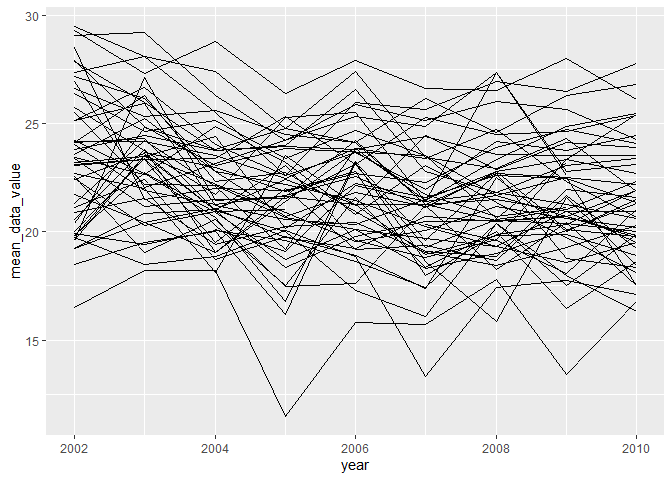
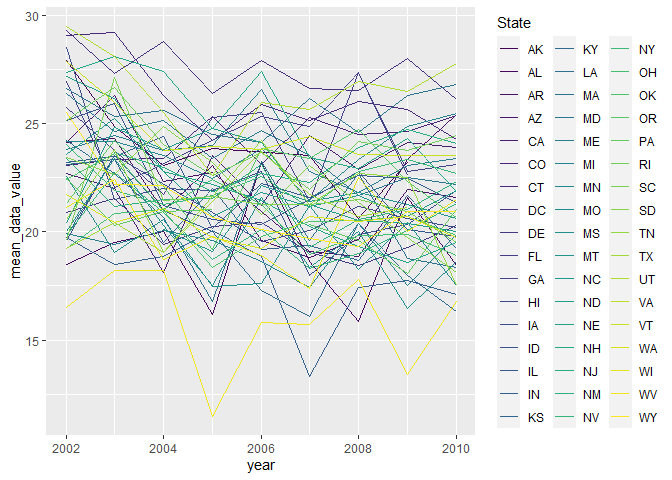
Solved 2b. Now for 3.

diff --git a/p8105_hw3_jra2186.md b/p8105_hw3_jra2186.md
@@ -3,6 +3,8 @@ P8105 Homework 3
 Jesse R. Ames
 10/20/2021
 
+*With assistance from Hun Lee and Nikhita Damaraju*
+
 ``` r
 library(tidyverse)
 ```
@@ -94,23 +96,23 @@ instacart %>%
     "dog food care",
     "packaged vegetables fruits"
   )) %>%
-  select(aisle, product_name) %>%
-  pivot_wider(names_from = aisle,
-              values_from = product_name,
-              values_fn = length) %>%
-  janitor::clean_names()
+  group_by(aisle) %>%
+  count(product_name, sort = TRUE) %>% #We want the top three from each aisle
+  slice_head(n = 3) %>% #Decapitation!
+  knitr::kable()
 ```
 
-    ## # A tibble: 1 x 3
-    ##   packaged_vegetables_fruits baking_ingredients dog_food_care
-    ##                        <int>              <int>         <int>
-    ## 1                      78493              13088          1612
-
-``` r
-  #select(baking_ingredients, dog_food_care, packaged_vegetables_fruits)
-  # group_by(aisle, product_name) %>%
-  # tally(sort = TRUE)
-```
+| aisle                      | product\_name                                 |    n |
+|:---------------------------|:----------------------------------------------|-----:|
+| baking ingredients         | Light Brown Sugar                             |  499 |
+| baking ingredients         | Pure Baking Soda                              |  387 |
+| baking ingredients         | Cane Sugar                                    |  336 |
+| dog food care              | Snack Sticks Chicken & Rice Recipe Dog Treats |   30 |
+| dog food care              | Organix Chicken & Brown Rice Recipe           |   28 |
+| dog food care              | Small Dog Biscuits                            |   26 |
+| packaged vegetables fruits | Organic Baby Spinach                          | 9784 |
+| packaged vegetables fruits | Organic Raspberries                           | 5546 |
+| packaged vegetables fruits | Organic Blueberries                           | 4966 |
 
 4.  Make a table showing the mean hour of the day at which Pink Lady
     Apples and Coffee Ice Cream are ordered on each day of the week;
@@ -262,8 +264,13 @@ brfss %>%
   filter(response == "Excellent") %>%
   group_by(locationabbr, year) %>%
   summarise(mean_data_value = mean(data_value)) %>%
-  ggplot(aes(x = year, y = mean_data_value, group = locationabbr)) +
-  geom_line() #Not the most useful plot
+  ggplot(aes(x = year,
+             y = mean_data_value,
+             group = locationabbr,
+             color = locationabbr)) +
+  geom_line() +
+  scale_color_viridis_d() +
+  labs(color = "State") #Not the most useful plot
 ```
 
     ## `summarise()` has grouped output by 'locationabbr'. You can override using the `.groups` argument.
